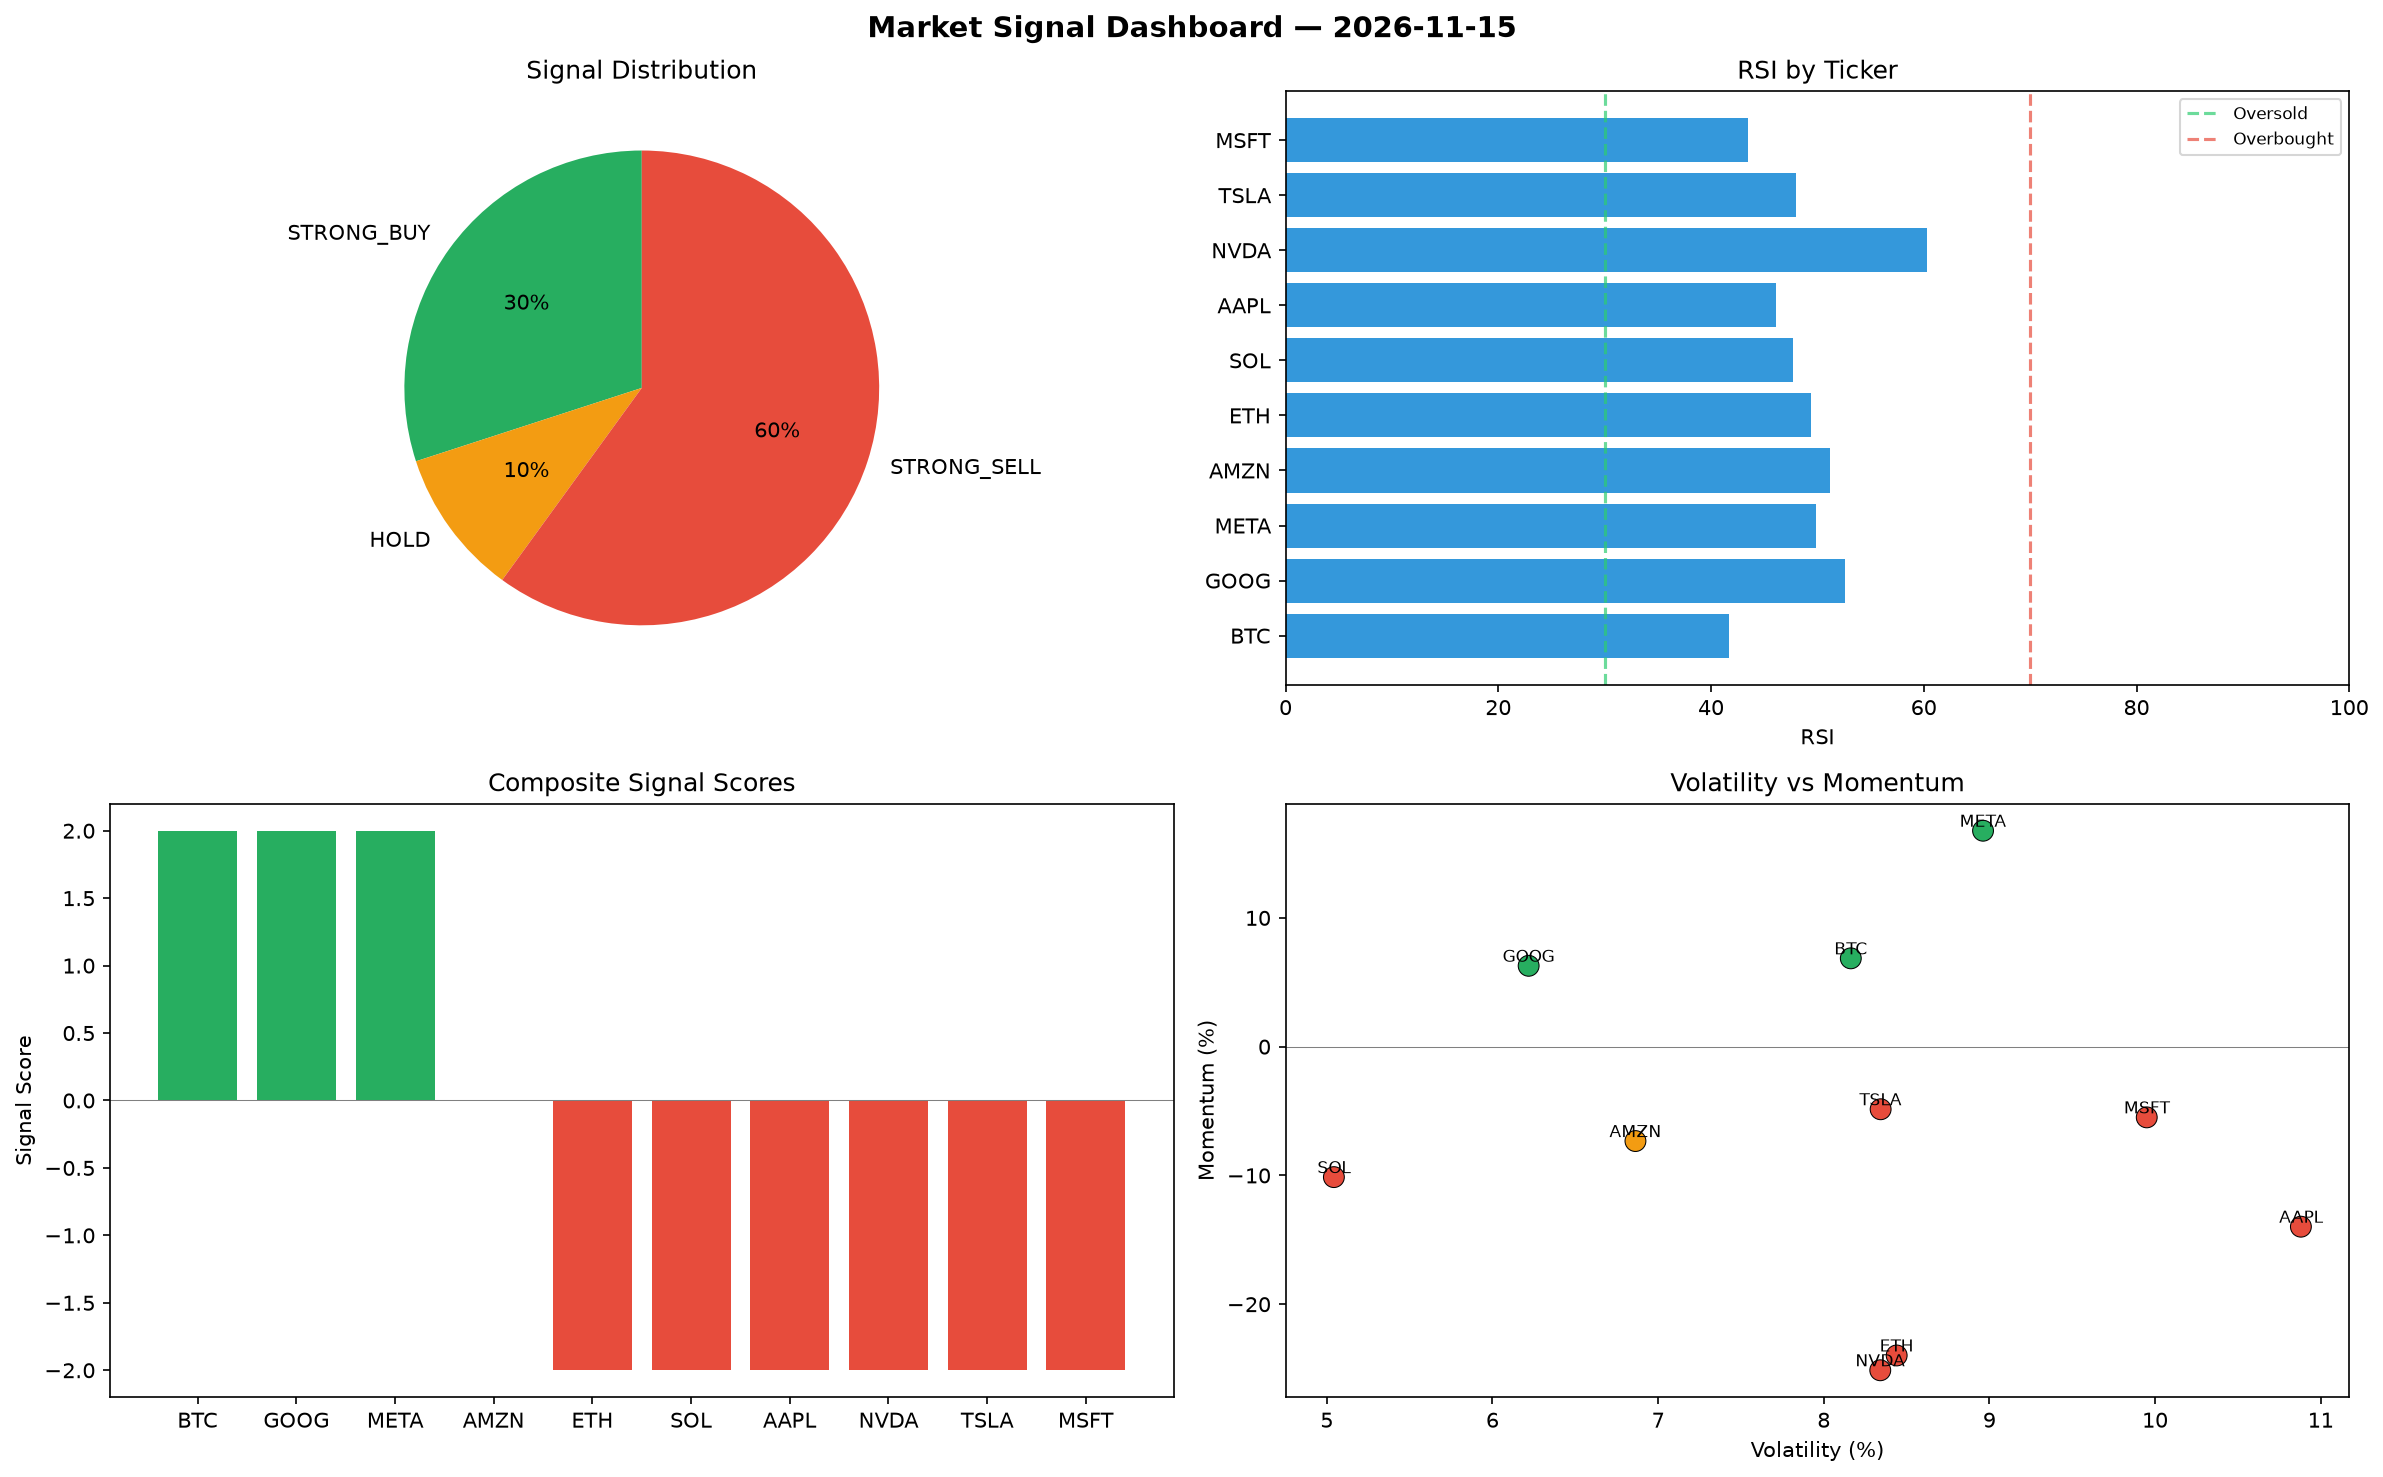
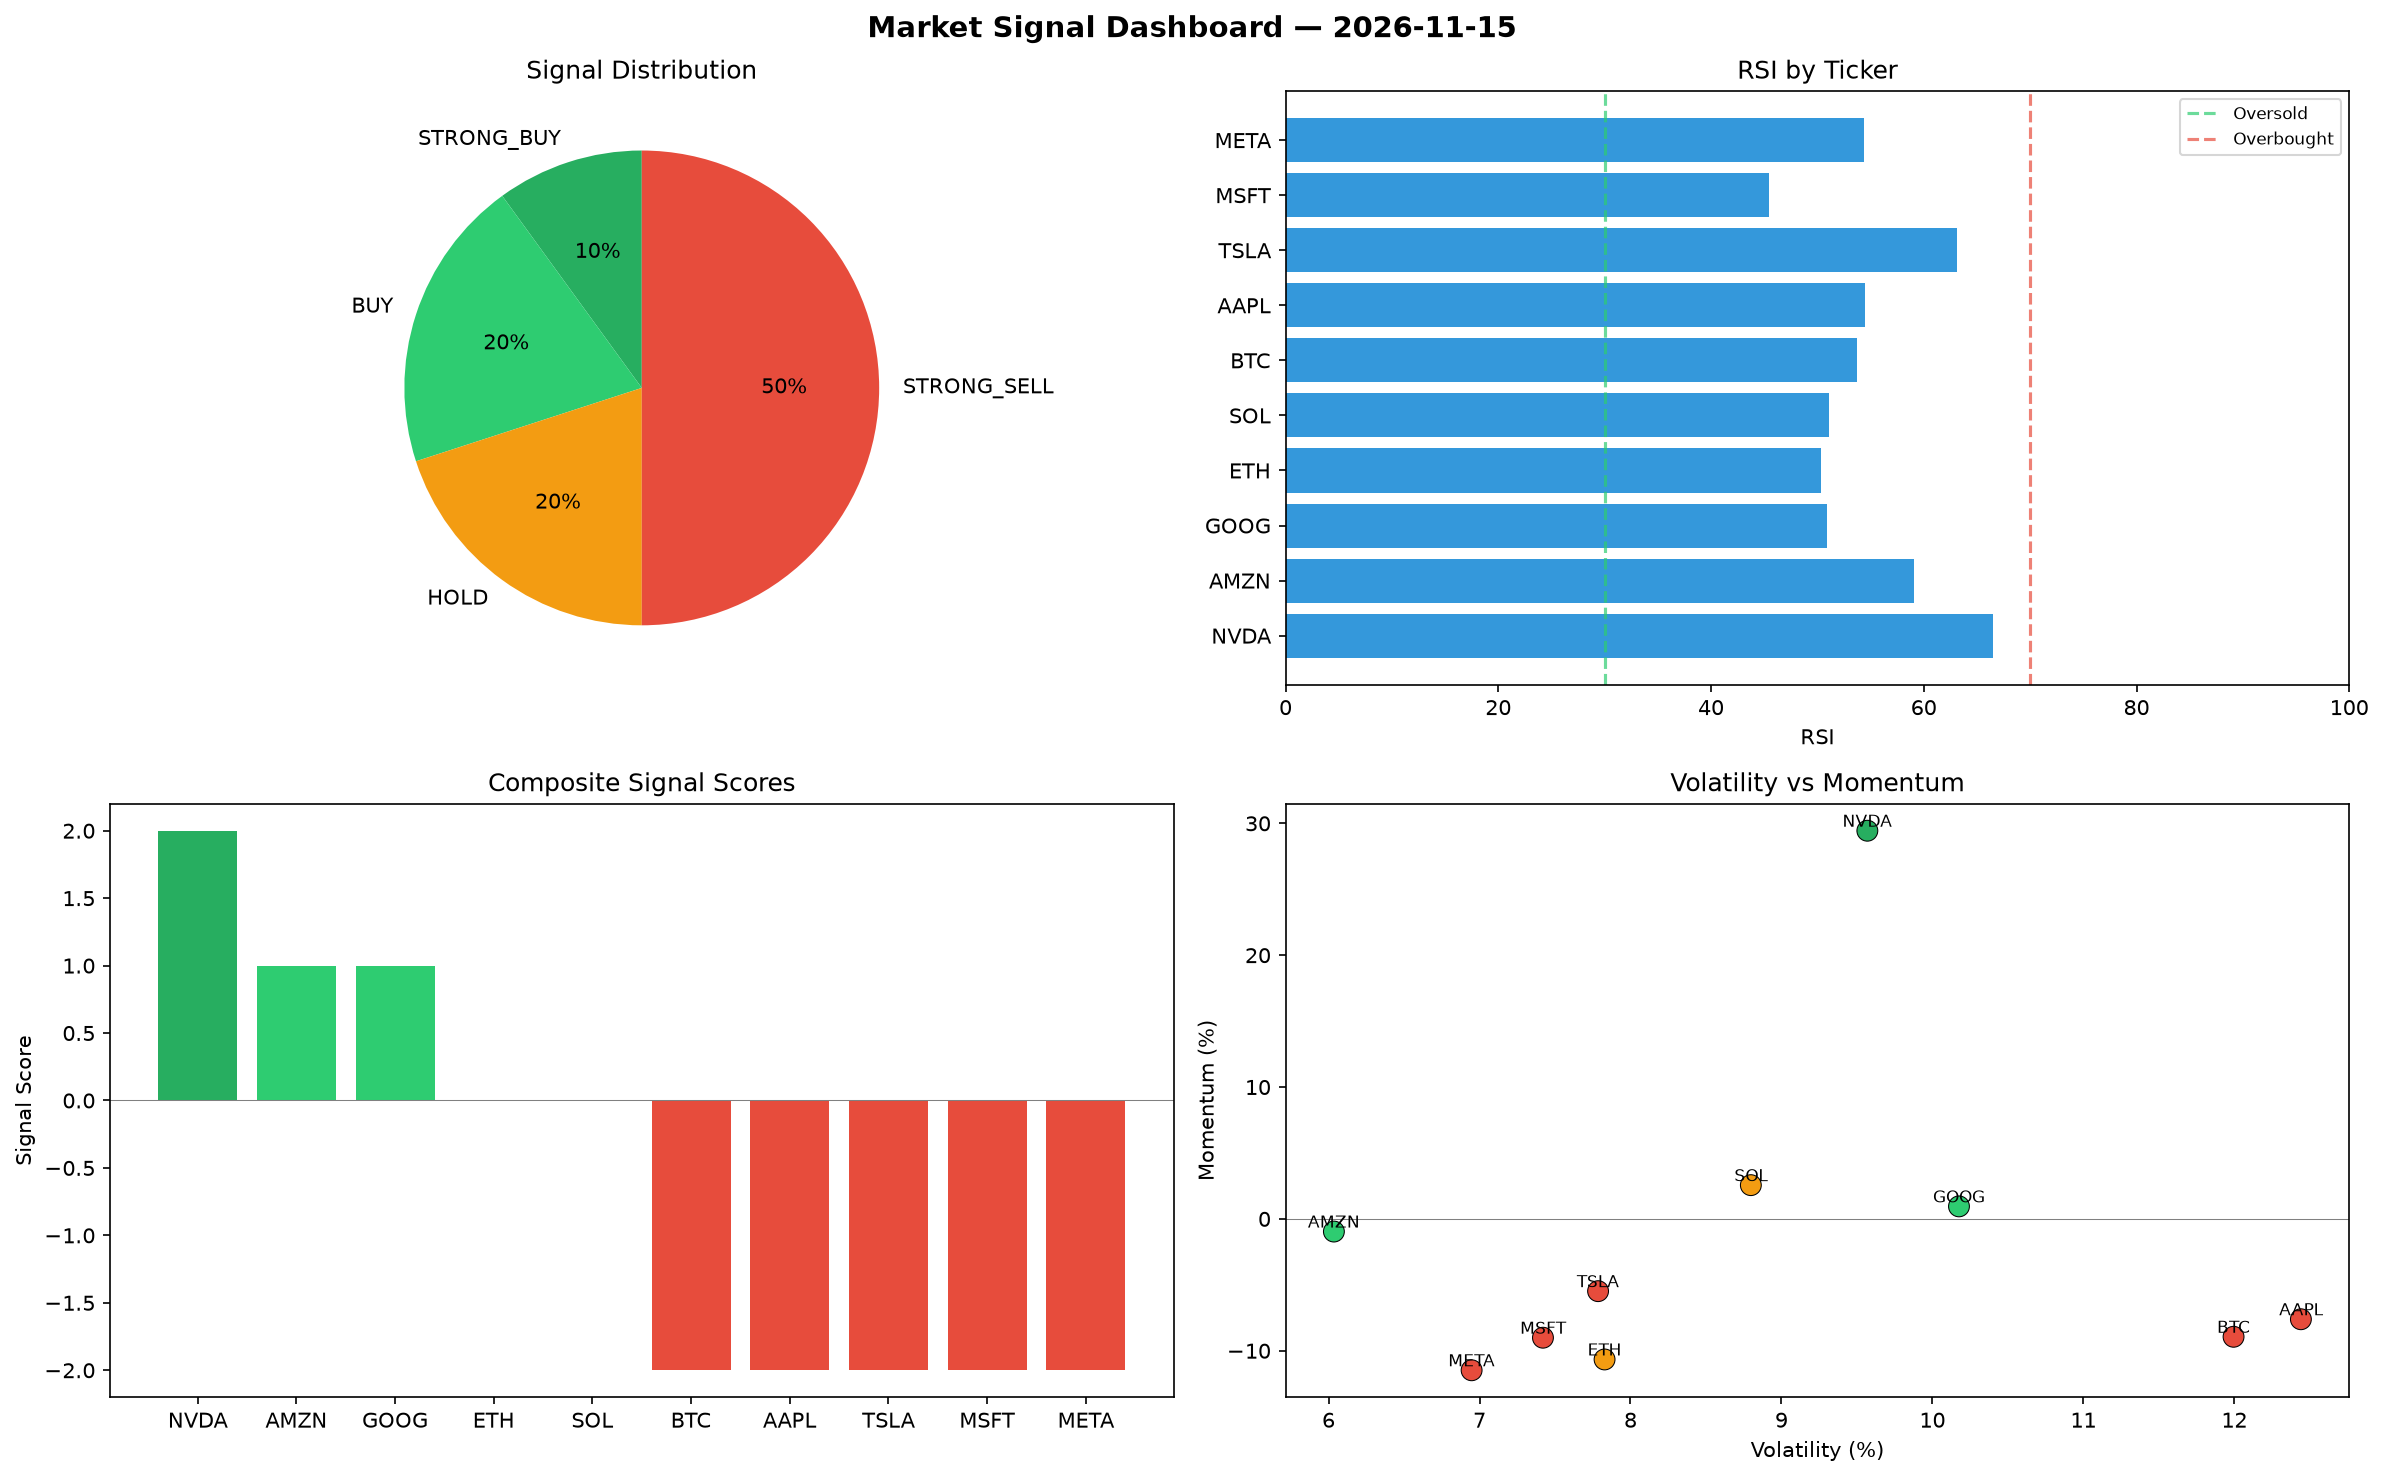
automated-bots: market signals 2026-11-15T19:54

diff --git a/logs/2026-11-15.md b/logs/2026-11-15.md
@@ -1,6 +1,6 @@
 # Market Signal Report — 2026-11-15
 
-**Run ID:** `6566e1fd4d` | **Buy:** 3 | **Sell:** 6 | **Hold:** 1
+**Run ID:** `94993f0292` | **Buy:** 3 | **Sell:** 5 | **Hold:** 2
 
 ![Dashboard](2026-11-15_dashboard.png)
 
@@ -8,28 +8,28 @@
 
 | Ticker | Price | Signal | Score | RSI | Momentum | Confidence |
 |--------|-------|--------|-------|-----|----------|------------|
-| BTC | $2266.7 | **STRONG_BUY** | 2 | 41.67 | 0.0686 | 0.5 |
-| GOOG | $1514.11 | **STRONG_BUY** | 2 | 52.63 | 0.0628 | 0.5 |
-| META | $3148.6 | **STRONG_BUY** | 2 | 49.85 | 0.1677 | 0.5 |
-| AMZN | $675.19 | **HOLD** | 0 | 51.16 | -0.0733 | 0.0 |
-| ETH | $316.21 | **STRONG_SELL** | -2 | 49.41 | -0.2398 | 0.5 |
-| SOL | $2087.97 | **STRONG_SELL** | -2 | 47.69 | -0.1013 | 0.5 |
-| AAPL | $1192.26 | **STRONG_SELL** | -2 | 46.13 | -0.1398 | 0.5 |
-| NVDA | $3845.02 | **STRONG_SELL** | -2 | 60.26 | -0.2513 | 0.5 |
-| TSLA | $1873.21 | **STRONG_SELL** | -2 | 48.0 | -0.0486 | 0.5 |
-| MSFT | $776.13 | **STRONG_SELL** | -2 | 43.47 | -0.0549 | 0.5 |
+| NVDA | $5504.19 | **STRONG_BUY** | 2 | 66.52 | 0.2944 | 0.5 |
+| AMZN | $3608.06 | **BUY** | 1 | 59.1 | -0.0096 | 0.25 |
+| GOOG | $1919.15 | **BUY** | 1 | 50.89 | 0.0095 | 0.25 |
+| ETH | $18.68 | **HOLD** | 0 | 50.33 | -0.1066 | 0.0 |
+| SOL | $1667.41 | **HOLD** | 0 | 51.12 | 0.0256 | 0.0 |
+| BTC | $327.51 | **STRONG_SELL** | -2 | 53.73 | -0.0894 | 0.5 |
+| AAPL | $1317.24 | **STRONG_SELL** | -2 | 54.5 | -0.0761 | 0.5 |
+| TSLA | $2850.79 | **STRONG_SELL** | -2 | 63.12 | -0.0548 | 0.5 |
+| MSFT | $3393.35 | **STRONG_SELL** | -2 | 45.47 | -0.0901 | 0.5 |
+| META | $2619.86 | **STRONG_SELL** | -2 | 54.4 | -0.1148 | 0.5 |
 
 ## Delta vs Yesterday
 
 | Ticker | Today | Yesterday | Price Change | Signal Changed |
 |--------|-------|-----------|-------------|----------------|
-| BTC | STRONG_BUY | STRONG_SELL | 📈 21.27% | ⚠ YES |
-| GOOG | STRONG_BUY | STRONG_SELL | 📉 -48.62% | ⚠ YES |
-| META | STRONG_BUY | HOLD | 📈 295.26% | ⚠ YES |
-| AMZN | HOLD | SELL | 📉 -57.92% | ⚠ YES |
-| ETH | STRONG_SELL | STRONG_SELL | 📉 -72.17% | — |
-| SOL | STRONG_SELL | STRONG_BUY | 📈 91.48% | ⚠ YES |
-| AAPL | STRONG_SELL | STRONG_BUY | 📉 -4.96% | ⚠ YES |
-| NVDA | STRONG_SELL | HOLD | 📈 168.74% | ⚠ YES |
-| TSLA | STRONG_SELL | HOLD | 📉 -43.01% | ⚠ YES |
-| MSFT | STRONG_SELL | STRONG_SELL | 📉 -46.47% | — |
+| NVDA | STRONG_BUY | HOLD | 📈 284.7% | ⚠ YES |
+| AMZN | BUY | SELL | 📈 124.84% | ⚠ YES |
+| GOOG | BUY | STRONG_SELL | 📉 -34.88% | ⚠ YES |
+| ETH | HOLD | STRONG_SELL | 📉 -98.36% | ⚠ YES |
+| SOL | HOLD | STRONG_BUY | 📈 52.92% | ⚠ YES |
+| BTC | STRONG_SELL | STRONG_SELL | 📉 -82.48% | — |
+| AAPL | STRONG_SELL | STRONG_BUY | 📈 5.01% | ⚠ YES |
+| TSLA | STRONG_SELL | HOLD | 📉 -13.27% | ⚠ YES |
+| MSFT | STRONG_SELL | STRONG_SELL | 📈 134.02% | — |
+| META | STRONG_SELL | HOLD | 📈 228.89% | ⚠ YES |
